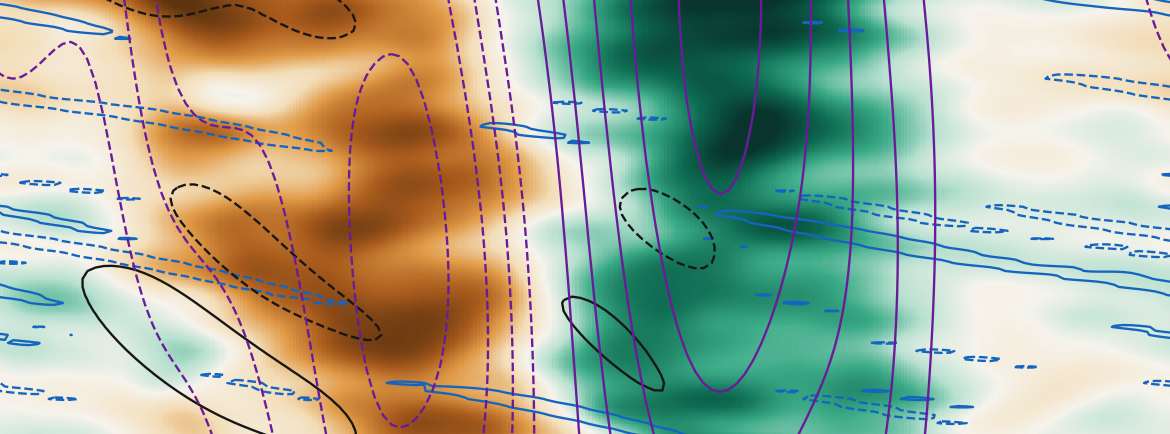
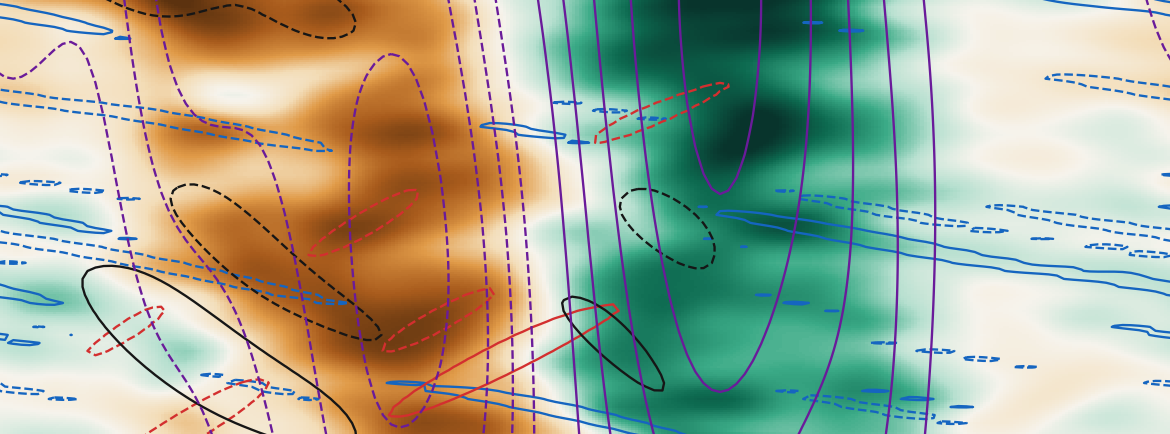
Publish the tropical forcing chart as vp200_ecmwf_extended.png.
The page now points at the stable daily file and notes the tighter ER contour interval.

diff --git a/tropical_forcing/index.html b/tropical_forcing/index.html
@@ -105,9 +105,9 @@
     <p class="status" id="status">Loading latest init…</p>
 
     <div class="frame">
-      <img id="chart" alt="200 mb velocity potential anomaly from 5°S to 5°N, ERA5 and ECMWF weeklies" src="chi200_ecmwf.png">
+      <img id="chart" alt="200 mb velocity potential anomaly from 5°S to 5°N, ERA5 and ECMWF weeklies" src="vp200_ecmwf_extended.png">
     </div>
-    <p class="hint">Time increases downward. Solid contours are negative (rising air); dashed contours are positive (sinking air). Interval 3×10<sup>6</sup> m<sup>2</sup> s<sup>−1</sup>. The map under the Hovmöller is the 5°S–5°N field on the first forecast day, drawn across 15°S–15°N so the landmasses show where that anomaly sits.</p>
+    <p class="hint">Time increases downward. Solid contours are negative (rising air); dashed contours are positive (sinking air). Interval 3×10<sup>6</sup> m<sup>2</sup> s<sup>−1</sup> (ER 2×10<sup>6</sup>). The map under the Hovmöller is the 5°S–5°N field on the first forecast day, drawn across 15°S–15°N so the landmasses show where that anomaly sits.</p>
 
     <div class="key">
       <h2>How to read this chart</h2>
